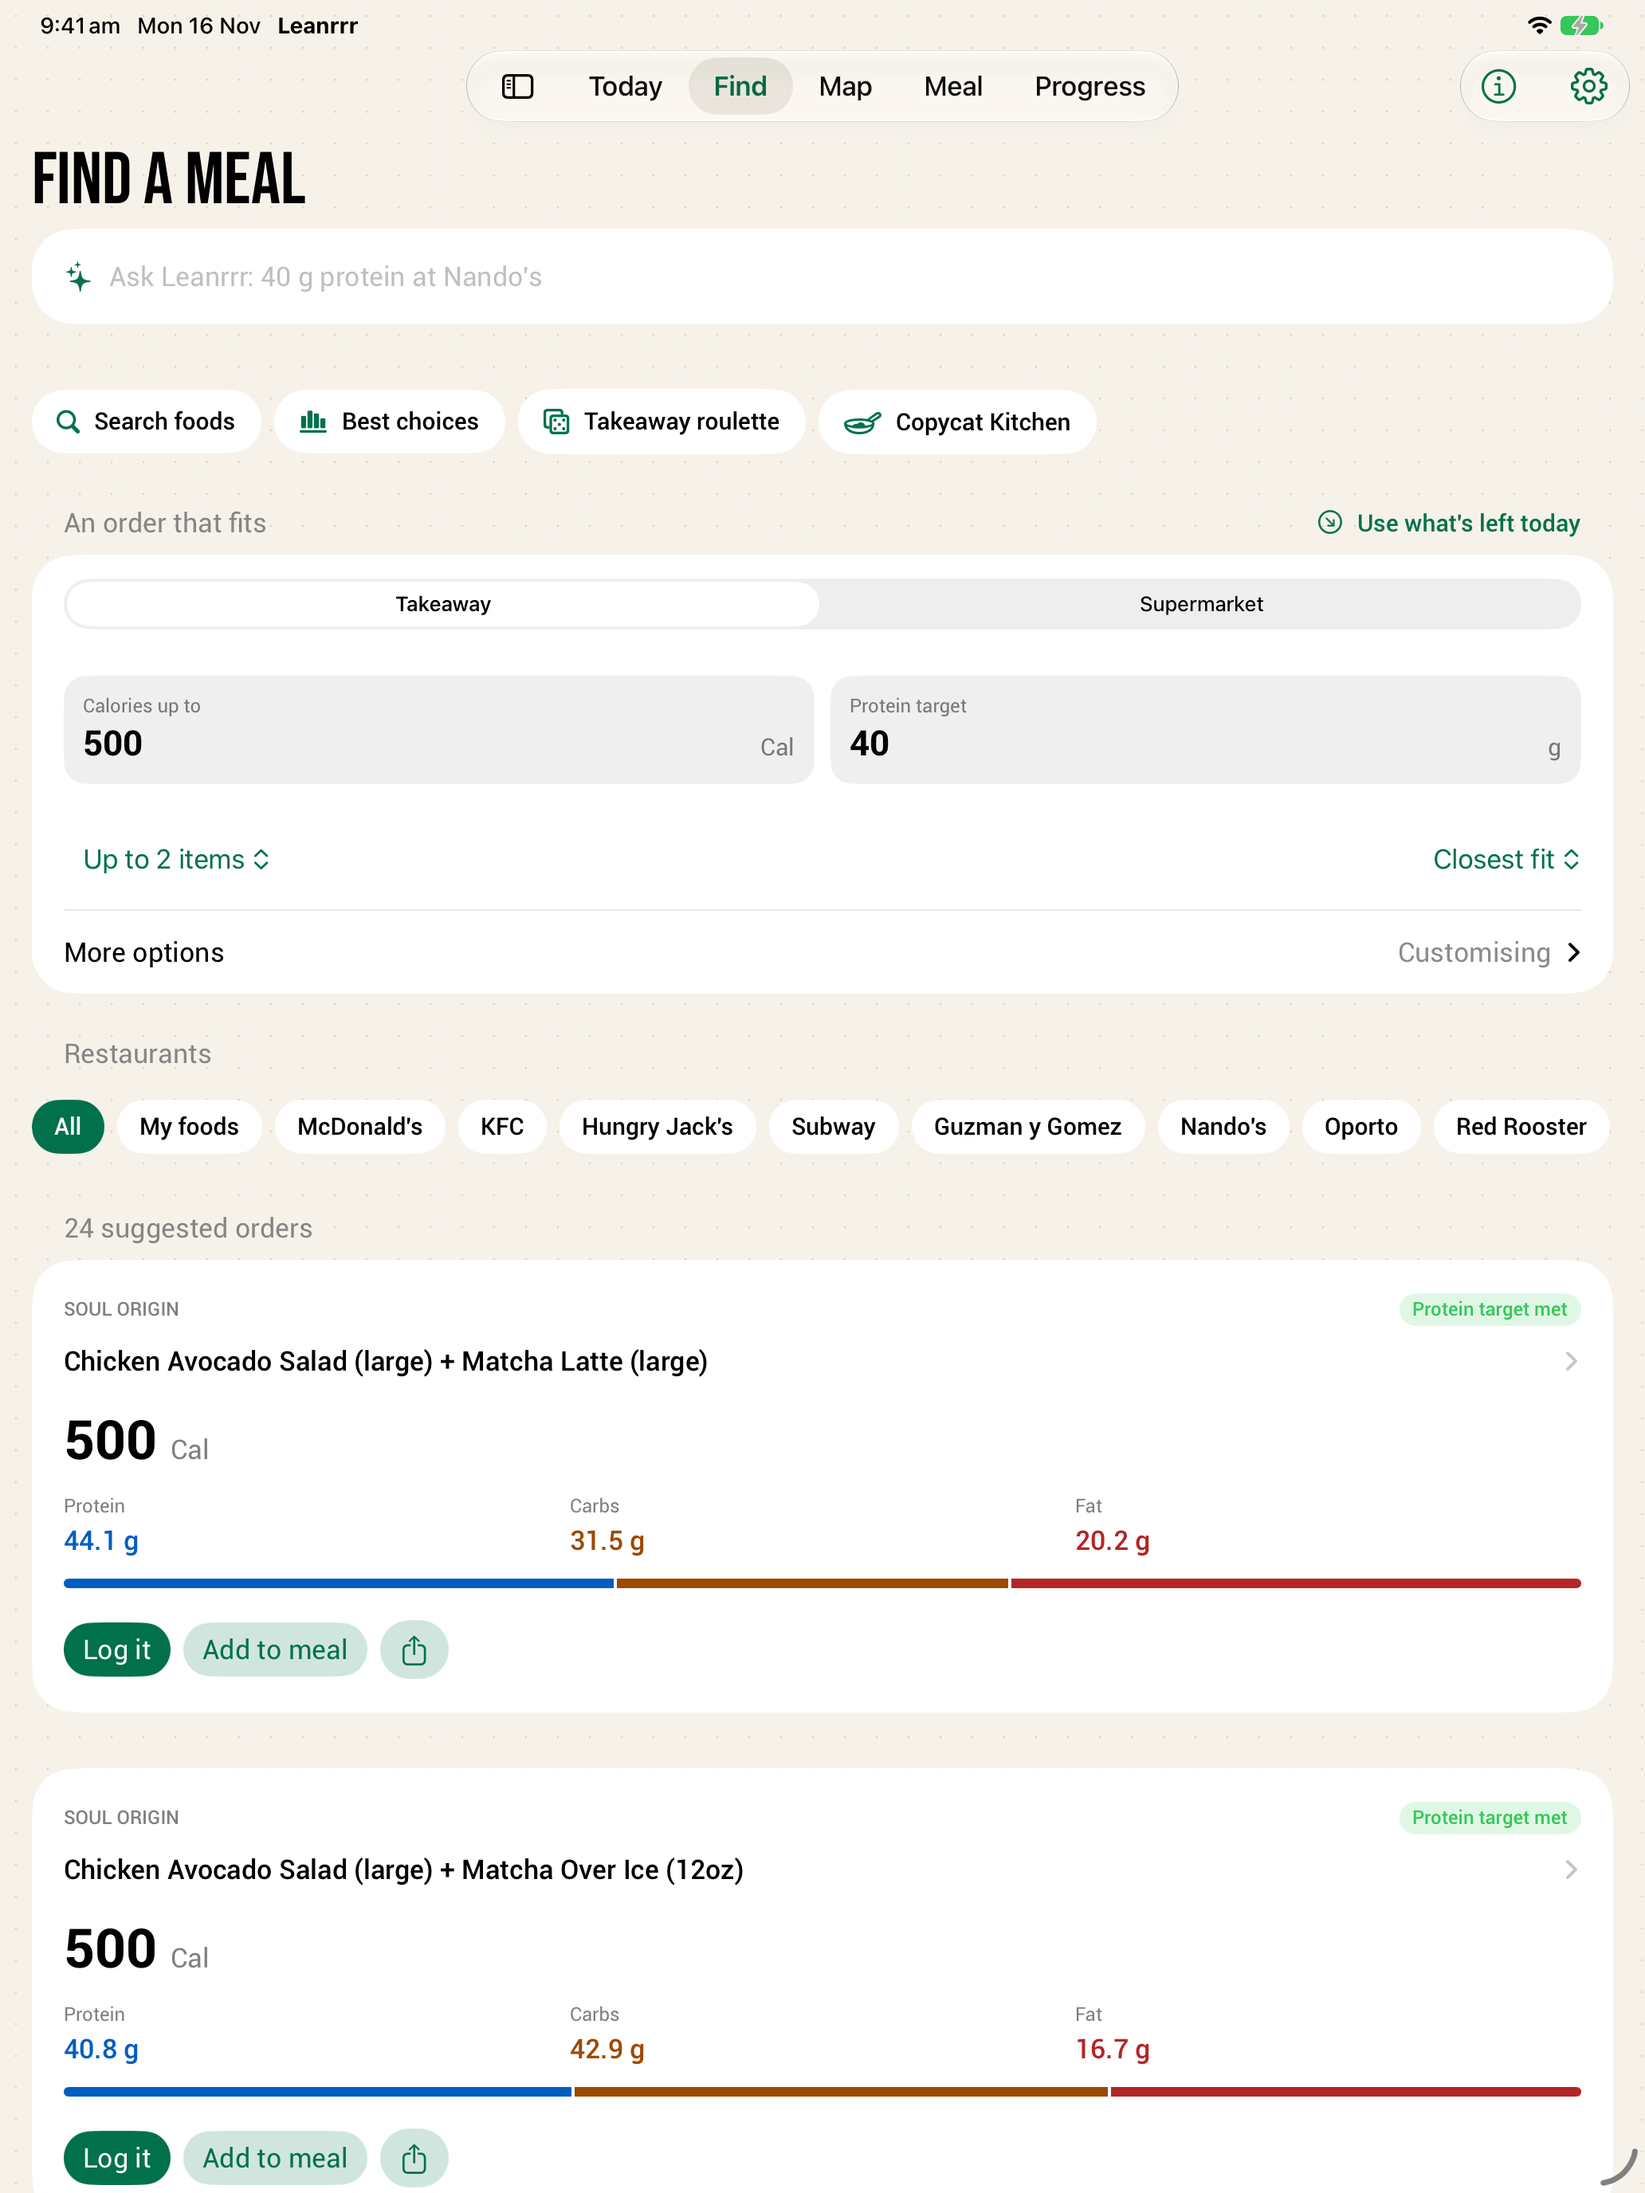
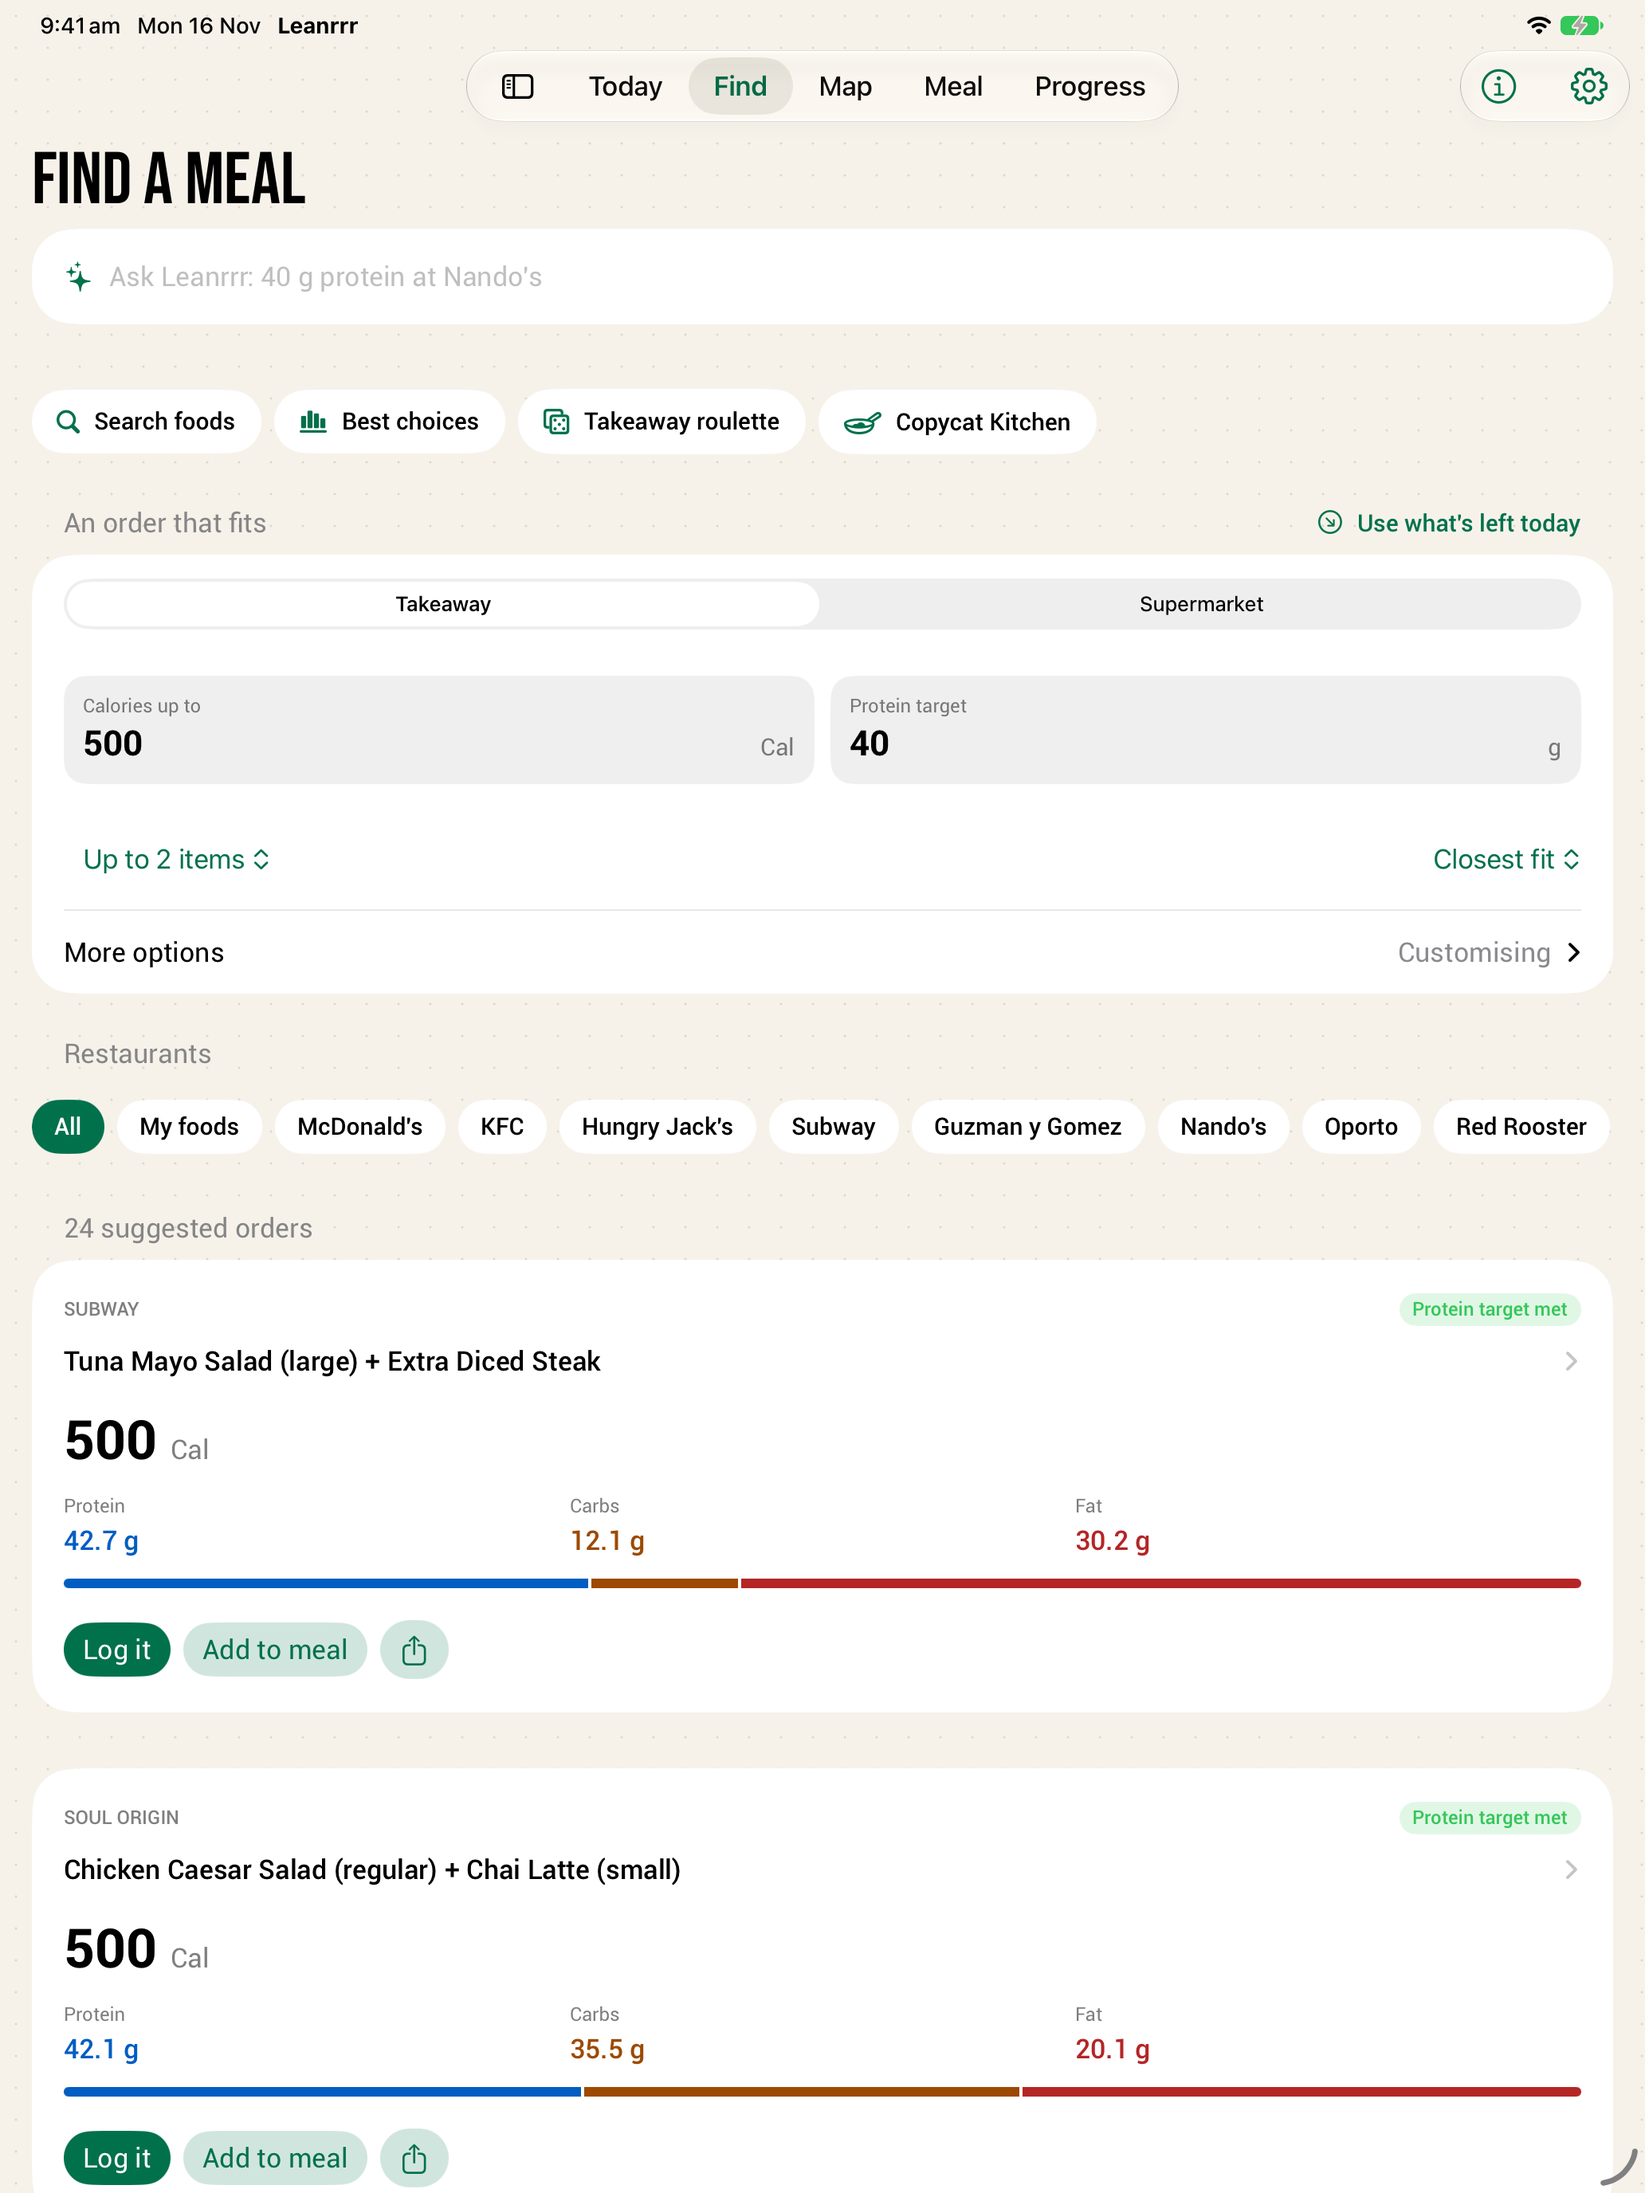
Retake the iPad screenshots with higher-protein sample days

diff --git a/ios/AppStore/Screenshots/make-sample.py b/ios/AppStore/Screenshots/make-sample.py
@@ -1,0 +1,54 @@
+# Builds two weeks of sample meals, weigh-ins and water for App Store screenshots. Usage: make-sample.py <ios dir> <out.json> [YYYY-MM-DD]
+import json,sys,uuid,datetime as dt
+ios,out=sys.argv[1],sys.argv[2]
+m=json.load(open(ios+'/MacroMenu/MenuData.json'))['foods']; g=json.load(open(ios+'/MacroMenu/GenericFoods.json'))
+def M(name,chain): return next(f for f in m if f['name']==name and f['chain']==chain)
+def G(name): return next(f for f in g if f['name']==name)
+ref=dt.datetime(2001,1,1,tzinfo=dt.timezone.utc); tz=dt.timezone(dt.timedelta(hours=11))
+today=dt.date.fromisoformat(sys.argv[3]) if len(sys.argv)>3 else dt.date.today()
+U=lambda: str(uuid.uuid4()).upper()
+def baked(f,q):
+    f=dict(f)
+    for k in ('cal','p','c','f'): f[k]=round(f[k]*q)
+    f['kj']=round(f['cal']*4.184)
+    if 'nut' in f: f['nut']={k:round(v*q,1) for k,v in f['nut'].items() if isinstance(v,(int,float))}
+    f.pop('modifiers',None)
+    if q!=1 and f.get('serve'): f['serve']=f"{q:g} × {f['serve']}"
+    return f
+def entry(day,hour,minute,meal,name,items):
+    t=(dt.datetime(day.year,day.month,day.day,hour,minute,tzinfo=tz)-ref).total_seconds()
+    return {"id":U(),"mealTime":meal,"time":t,"name":name,"items":[{"food":baked(f,q),"id":U(),"quantity":1} for f,q in items]}
+bf=[("Oats and banana",[(G('Rolled oats'),0.6),(G('Banana'),1),(G('Greek yoghurt, plain, no fat'),2),(G('Whey protein powder'),0.3)]),
+    ("Eggs on toast",[(G('Egg, scrambled'),3),(G('Wholemeal bread'),2),(G('Greek yoghurt, plain, no fat'),2)])]
+lunch=[("Grilled Chicken Burrito Bowl",[(M('Grilled Chicken Burrito Bowl','gyg'),1)]),
+       ("Zinger Protein Bowl",[(M('Zinger Protein Bowl','kfc'),1)]),
+       ("Chicken Salad Bowl",[(M('Chicken Salad Bowl','oporto'),1)]),
+       ("Avo Parmesan Crunch with Chicken",[(M('Avo Parmesan Crunch with Chicken','nandos'),1),(G('Banana'),1)])]
+dinner=[("Chicken and rice",[(G('Chicken breast, cooked'),2),(G('White rice, cooked'),2.5)]),
+        ("Half Chicken",[(M('Half Chicken','oporto'),1),(G('White rice, cooked'),1.5)]),
+        ("Big Mac",[(M('Big Mac','mcd'),1)]),
+        ("Steak and rice",[(G('Sirloin steak, lean, cooked'),2),(G('White rice, cooked'),2.5)])]
+snack=[("Apple and almonds",[(G('Apple'),1),(G('Almonds'),1)]),("Greek yoghurt",[(G('Greek yoghurt, plain'),2),(G('Banana'),1)]),
+       ("Protein shake",[(G('Whey protein powder'),0.3),(G('Milk, skim'),1)])]
+logs={}
+for i in range(13,-1,-1):
+    d=today-dt.timedelta(days=i)
+    if i in (9,12): continue
+    es=[entry(d,7,40,"breakfast",*bf[i%2]),entry(d,12,35,"lunch",*lunch[i%4])]
+    if i>0: es+=[entry(d,15,30,"snacks",*snack[i%3]),entry(d,19,10,"dinner",*dinner[i%4])]
+    logs[d.isoformat()]=es
+kgs=[86.4,86.0,85.9,85.3,85.5,84.9,84.6,84.8,84.2,84.0,83.7,83.9,83.4,83.1]
+weights=[]
+for n,kg in enumerate(kgs):
+    d=today-dt.timedelta(days=3*(len(kgs)-1-n))
+    weights.append({"kg":kg,"id":U(),"date":(dt.datetime(d.year,d.month,d.day,7,5,tzinfo=tz)-ref).total_seconds()})
+monday=lambda d: (d-dt.timedelta(days=d.weekday())).isoformat()
+start=today-dt.timedelta(days=57)
+state={"version":2,"foods":[],"meals":[],"tray":[],"logs":logs,"weights":weights,
+ "goalSets":[{"minimums":["p","fibre"],"mealCal":500,"mealProtein":40,"name":"Every day","values":{"cal":2200,"p":150},"id":U()}],
+ "dayGoals":{},"weightGoal":{"startKg":88,"set":(dt.datetime(start.year,start.month,start.day,tzinfo=tz)-ref).total_seconds(),"kg":80},
+ "celebrated":["week:"+monday(today-dt.timedelta(days=7*k)) for k in (2,1,0)],
+ "water":{(today-dt.timedelta(days=i)).isoformat():v for i,v in enumerate([1250,2000,1750,2250,1500,2000,1750])}}
+json.dump(state,open(out,'w'))
+for k,es in logs.items():
+    print(k, sum(it['food']['cal'] for e in es for it in e['items']), sum(it['food']['p'] for e in es for it in e['items']))

diff --git a/ios/AppStore/README.md b/ios/AppStore/README.md
@@ -118,7 +118,8 @@ simulator named "Leanr iPad 13"): Today, Find, Progress (Eating), Weight and Mea
 Watch screenshots (422 × 514, the Ultra size, from the "Leanr Ultra 49" simulator): calories left, Log again and water.
 
 To retake the iPad ones: build Debug for the simulator, copy `Screenshots/sample-app-state.json` (two weeks of sample
-meals, weigh-ins and water ending 16 Nov 2026; shift the dates if it's much later) to
+meals, weigh-ins and water ending 16 Nov 2026, with the protein target met on most days; for a later date run
+`python3 Screenshots/make-sample.py <ios folder> <output file> [YYYY-MM-DD]`, which ends on today by default) to
 `Library/Application Support/MacroMenu/app-state.json` in the app's data container, set the defaults
 `leanr.onboarding.completed` to YES and `tips.enabled` to NO, set the status bar with `xcrun simctl status_bar … override
 --time 9:41`, and launch with `-LeanrForcePremium`. The Watch ones are a Debug build of LeanrWatch launched with
